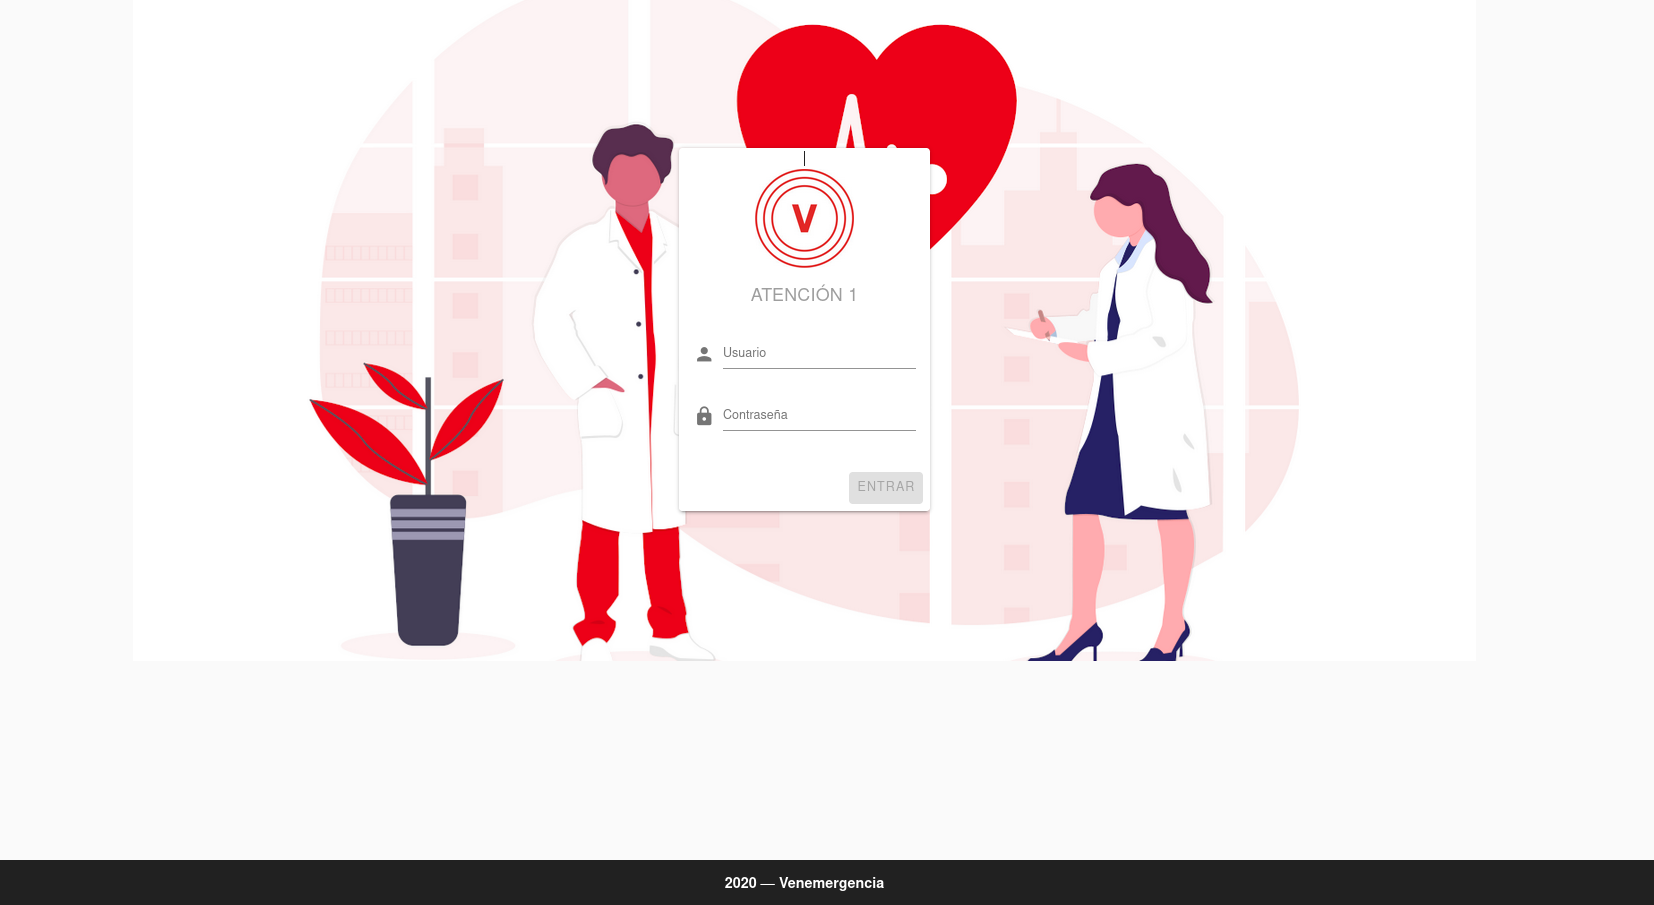
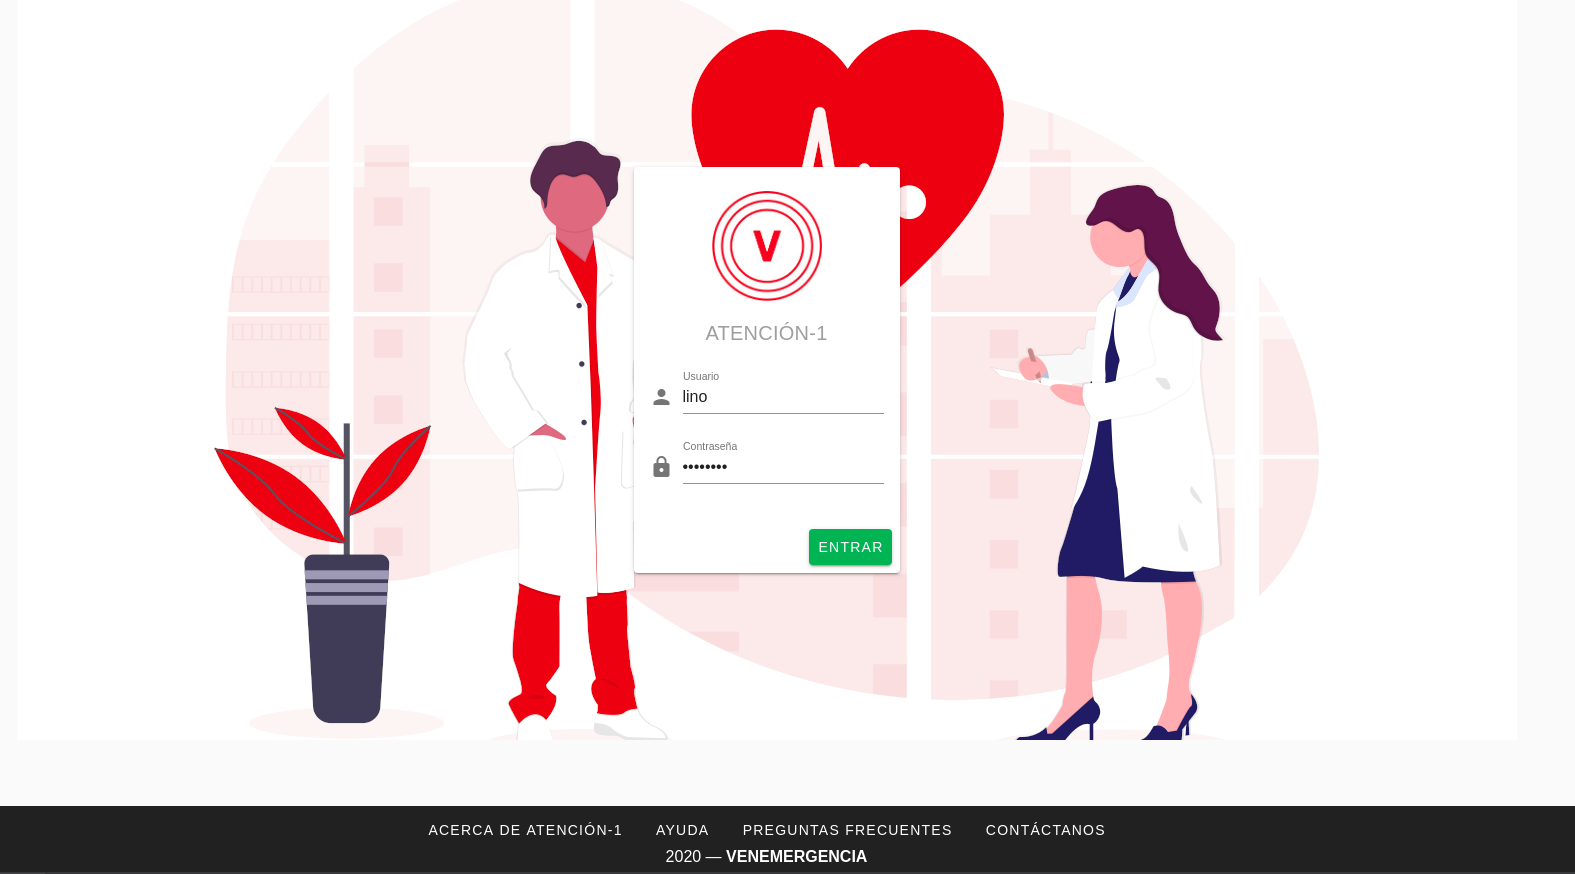
Se organiza archivo de Operador

diff --git a/source/03_01operador.rst b/source/03_01operador.rst
@@ -4,21 +4,33 @@ Operador/a
 El Operador es la persona que atiende la llamada telefónica y agrega la información del afiliado y su solicitud en la plataforma Atención-1. Recuerda que si quieres conocer los conceptos utilizados en la plataforma Atención-1, puedes revisar este :ref:`glosario` que hemos preparado.
 
 
-Para ingresar a la plataforma como Operador, debemos escribir en la barra de dirección de nuestro navegador: https://atencion1.venedigital.com. Una vez allí ingresaremos nuestro usuario y contraseña para ingresar a la plataforma.
+Para ingresar a la plataforma como Operador, debemos escribir en la barra de dirección de nuestro navegador: https://atencion1.venedigital.com. Una vez allí ingresaremos nuestro usuario y contraseña para ingresar a la plataforma. Allí veremos en la barra inferior información acerca de Atención-1, un enlace con ayuda que contendrá un manual,  una guía de Preguntas Frecuentes y enlace a un correo electrónico con el que se podrá contactar al equipo de desarrollo.
 
-.. image:: ../images/Operador/PantallaInicialAtencion1.png
+.. image:: ../images/PantallaInicialAtencion1.png
 
-Al ingresar a la plataforma, vemos el panel de atenciones en espera, en progreso y por cerrar. 
+Para ingresar debemos indicar el nombre y contraseña del usuario, en este caso Operador. Una vez dentro de la plataforma, vemos varios elementos: en la parte superior del lado derecho tenemos el acceso a los datos del perfil del usuario que acaba de ingresar. Del lado superior izquierdo tenemos el menú donde podemos acceder más fácilmente al panel de atenciones. Y en la parte central, se encuentra el panel de atenciones. Una atención es un conjunto de servicios ofrecidos a titulares o afiliados de pólizas de seguros. Este panel se encuentra dividido en cuatro secciones: 
 
-.. image:: ../images/Operador/PanelGeneralOperador.png
+#. Atenciones en espera.
+#. Atenciones próximas programadas: en esta sección se encuentran todos los PHD o MD programados.
+#. Atenciones en progreso: esta sección muestra los servicios que actualmente están siendo atendidos.
+#. Atenciones por cerrar. 
 
-Recordemos que una atención es un conjunto de servicios ofrecidos a titulares o afiliados de pólizas de seguros. Al atender una llamada, lo primero que debemos hacer es proceder a crear una **atención**. Para crear una nueva **atención**: 
+.. image:: ../images/.png
+
+En la parte superior podemos saber cómo se encuentra o cuál es la condición de cada servicio por medio de un color determinado:
+
+#. El color amarillo indica un servicio abierto.
+#. El color verde es un servicio en proceso.
+#. El color azul es un servicio completado.
+#. El color gris oscuro indica un servicio cerrado.
+#. El color gris claro indica un servicio cancelado.
+#. El color rojo con que incluye una advertencia con un signo de admiración indica un servicio retrasado.
+
+Al atender una llamada, lo primero que debemos hacer es proceder a crear una **atención**. Para crear una nueva **atención**: 
 
 #. Hacemos click en el círculo de color verde con un signo "+" en su interior.
 #. A continuación en el recuadro que contiene el símbolo de la lupa, introducimos la cédula o el nombre de la persona que solicita ser atendida. Atención-1 permite realizar búsquedas con número de cédula o nombre, parcial o completo, de la persona afiliada.
 #. Al pulsar Enter o hacer click sobre la lupa, obtendremos los resultados de la búsqueda. En caso de no existir un afiliado/a con esos datos, el sistema permitirá ingresar los datos de una nueva persona afiliada. En caso contrario, deberá seleccionarse de la lista desplegada, cuál es el afiliado o la afiliada a atender.
 
-.. image:: ../images/Operador/CreacionAfiliadoOperador.png
-
-
+AGREGAR IMAGEN DE CREACIÓN DE USUARIO
 
